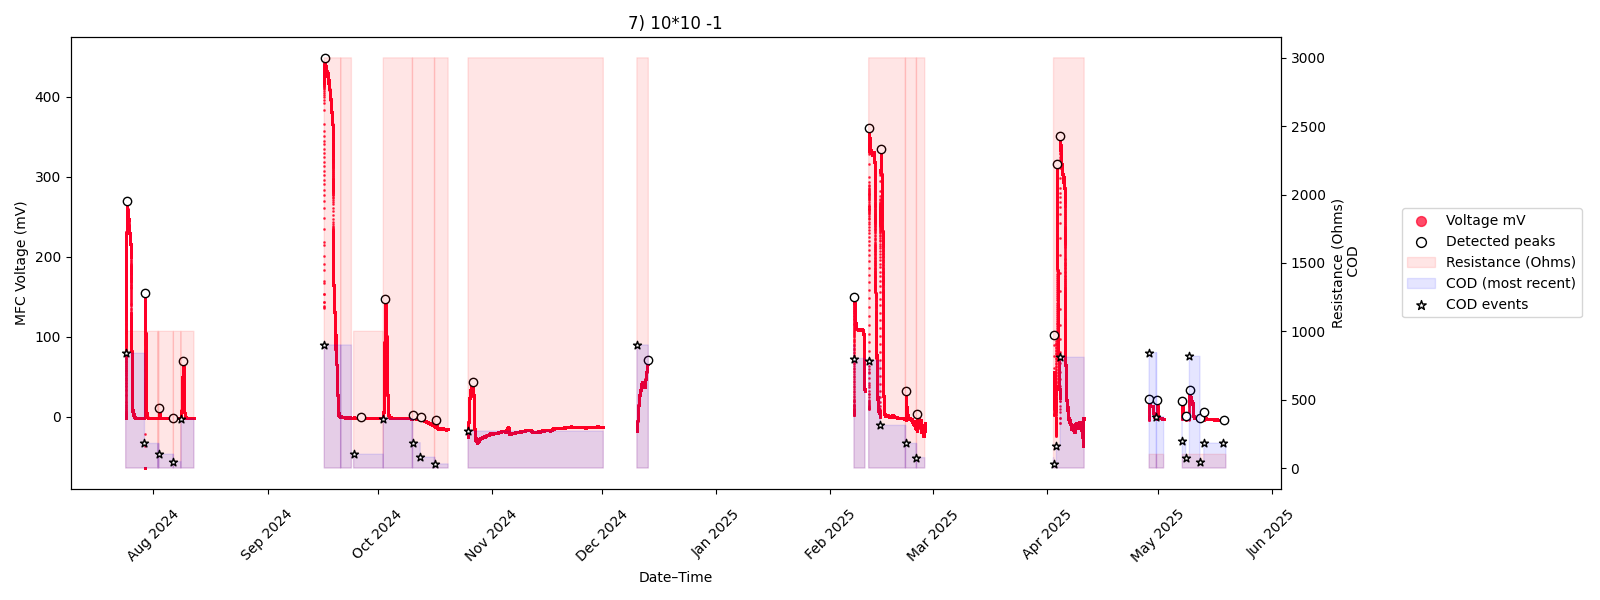
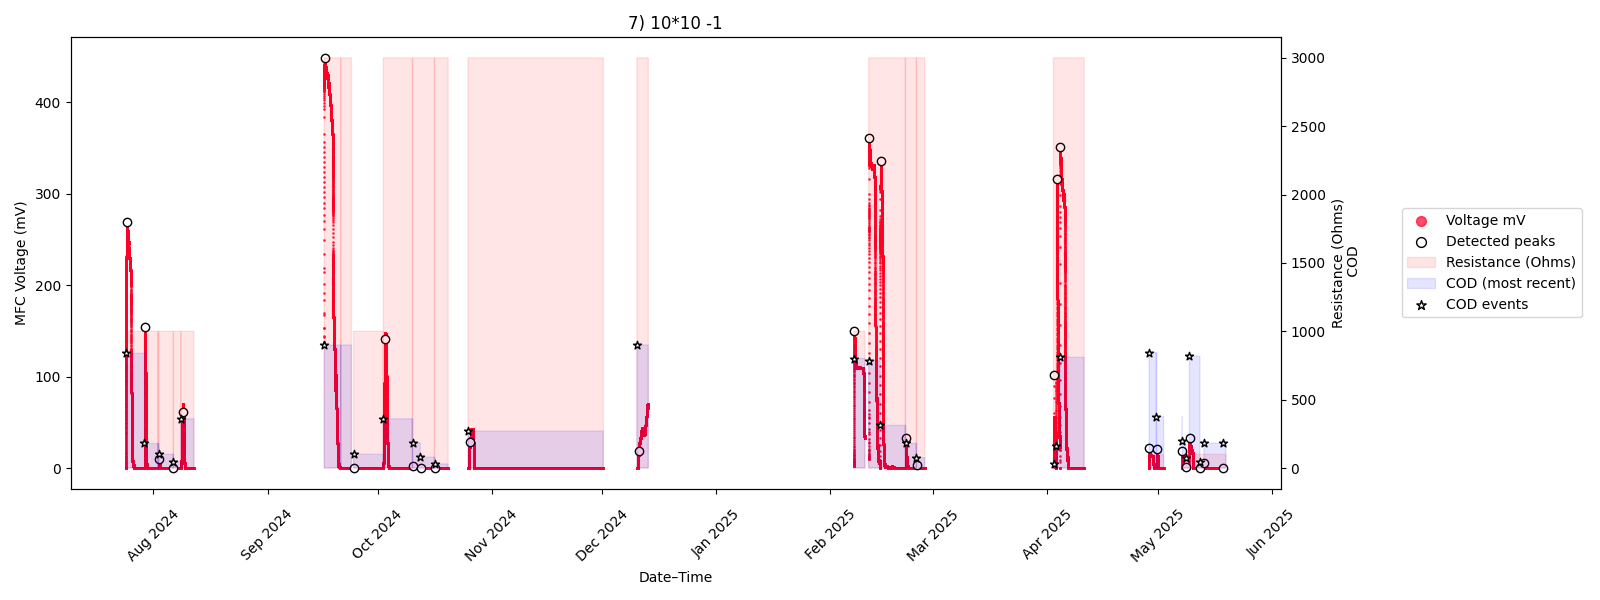
Enabled window size to vary to eplxore ealy detection of COD

diff --git a/extract_features.py b/extract_features.py
@@ -8,7 +8,8 @@ feature_data_file_name = "mfc_features"
 
 # def extract_features_to_excel(output_file_path=feature_data_file_path):
 def extract_and_store_features(input_file_path="all_data.pkl", 
-                               output_file_name=feature_data_file_name):
+                               output_file_name=feature_data_file_name,
+                               window_length_hours = 0):
 
     # Load stored data
     all_data = pd.read_pickle(input_file_path)
@@ -44,10 +45,13 @@ def extract_and_store_features(input_file_path="all_data.pkl",
     # Dictionary to store computed/extracted parameters
     mfc_features = {
         "COD date time index" : {},
+        "Window length (hours)" : {},
         "COD" : {},
         "Resistance kOhms" : {},
         "Vpeak mV": {}, 
         "Ppeak W": {}, 
+        "Vfinal mV": {}, 
+        "Pfinal W": {}, 
         "Rise time (days)" : {},
         "Decay slope (V per s)" : {},
         "Energy J": {},
@@ -67,7 +71,10 @@ def extract_and_store_features(input_file_path="all_data.pkl",
         print(mfc)
         data = all_mfc_data_separate[mfc]
 
-        # Add column showing MFC power output
+        # Set negative voltage values to 0
+        data["Voltage mV"] = data["Voltage mV"].clip(lower=0)
+
+        # Compute column showing MFC power output
         data['Power W'] = (data["Voltage mV"]/1000)**2 / (data["Resistance kOhms"]*1000)
 
         for feature in mfc_features:
@@ -86,7 +93,7 @@ def extract_and_store_features(input_file_path="all_data.pkl",
         mfc_features["COD"][mfc] = list(data.loc[cod_events_idx, "COD"])
 
         # -------- Resistance --------
-        # Store Resistance values
+        # Store Resistance value assocaited with each COD event 
         mfc_features["Resistance kOhms"][mfc] = list(data.loc[cod_events_idx, "Resistance kOhms"])
 
         # Arrays to store index of voltage peaks for each COD event
@@ -94,17 +101,35 @@ def extract_and_store_features(input_file_path="all_data.pkl",
 
         # Get window of data following each COD event
         for i in range(len(cod_events_idx)):
-            start = cod_events_idx[i] 
-            if i < len(cod_events_idx) - 1:
+            start = cod_events_idx[i]
+
+            # Set end of window
+            if window_length_hours > 0:
+                # Find closest data point to desired window length
+                end_actual = start + pd.Timedelta(hours=window_length_hours)
+                end = data.index.asof(end_actual)
+
+                mask = (data.index >= start) & (data.index < end)
+
+                # mfc_features["Window length (hours)"][mfc].append(window_length_hours)
+
+            elif i < len(cod_events_idx) - 1:
                 end = cod_events_idx[i+1]
                 mask = (data.index >= start) & (data.index < end)
+                # mfc_features["Window length (hours)"][mfc].append(0)
+            
             # Last segment of data 
             else:
                 mask = (data.index >= start) 
-            window = data.loc[mask]
+                # mfc_features["Window length (hours)"][mfc].append(0)
 
-            # Get the window of voltage data
+            # Select window of data
+            window = data.loc[mask]
+            print('Window length', len(window))
+
+            # Get the window of voltage and power data
             V_window = window['Voltage mV']
+            P_window = window['Power W']
 
             # # Update maximum window size
             # window_size = len(V_window)
@@ -118,20 +143,23 @@ def extract_and_store_features(input_file_path="all_data.pkl",
             # If there is data in the window
             if V_window.notna().any():
 
-                # -------- Index of the max voltage value --------
-                peak_idx = V_window.idxmax()
-                # print('peak', peak_idx-start)
-                # print()
- 
-                # -------- Rise time (time from COD event to voltage peak) --------
-                rise_time = (peak_idx - start).total_seconds() / (60 * 60 * 24)
-
+                
                 # -------- Max voltage value --------
+                peak_idx = V_window.idxmax()
                 V_peak = V_window.loc[peak_idx]
-
-                # -------- Power at the max voltage value --------
-                P_window = window['Power W']
+                print(V_peak)
+                
+                # -------- Power at the max voltage value (i.e. max power becuase R is constant) --------        
                 P_peak = P_window.loc[peak_idx]
+
+                # -------- Final voltage value --------
+                V_final = V_window.iloc[-1]
+
+                # -------- Final power value --------
+                P_final = P_window.iloc[-1]
+
+                # -------- Rise time (time from COD event to voltage peak) --------
+                rise_time = (peak_idx - start).total_seconds() / (60 * 60 * 24)  
 
                 # -------- Decay slope --------
                 # Define end of window
@@ -160,17 +188,20 @@ def extract_and_store_features(input_file_path="all_data.pkl",
                 peak_idx = None
                 V_peak = None
                 P_peak = None
+                V_final = None
+                P_final = None
                 rise_time = np.nan
                 decay_slope = np.nan
 
-            voltage_peaks_idx.append(peak_idx)
-
-
             # Store features for this data window
+            voltage_peaks_idx.append(peak_idx)
+            mfc_features["Window length (hours)"][mfc].append(window_length_hours)
             mfc_features["Vwindow mV"][mfc].append(V_window.tolist())
             mfc_features["Pwindow W"][mfc].append(P_window.tolist())
             mfc_features["Vpeak mV"][mfc].append(V_peak)
             mfc_features["Ppeak W"][mfc].append(P_peak)
+            mfc_features["Vfinal mV"][mfc].append(V_final)
+            mfc_features["Pfinal W"][mfc].append(P_final)
             mfc_features["Rise time (days)"][mfc].append(round(rise_time, 6))
             mfc_features["Decay slope (V per s)"][mfc].append(round(decay_slope, 6))
 
@@ -201,6 +232,14 @@ def extract_and_store_features(input_file_path="all_data.pkl",
                   show_days=False,
                   show_plot=False
                   )
+        
+        # plot_data(data, 
+        #           ["Power W"], 
+        #           title=mfc, 
+        #           voltage_peaks=voltage_peaks_idx,
+        #           show_days=False,
+        #           show_plot=False
+        #           )
         
     # print('Window size max', window_size_max)
 
@@ -262,5 +301,7 @@ def extract_and_store_features(input_file_path="all_data.pkl",
 
 if __name__ == "__main__":
     extract_and_store_features(input_file_path="all_data.pkl",
-                               output_file_name=feature_data_file_name)
+                               output_file_name=feature_data_file_name,
+                               window_length_hours=12
+                               )
 

diff --git a/model_performance_comparison.py b/model_performance_comparison.py
@@ -62,7 +62,7 @@ def prepare_model_data(model_data, labels, features):
 
 
 def evaluate_model_performance(X, y, results, configuration, 
-                               model_class, test_size, 
+                               model_class, features, test_size, 
                                min_data_points):
 
     # Drop any configurations with less than minimum threshold
@@ -132,10 +132,10 @@ def evaluate_model_performance(X, y, results, configuration,
 
 # MFC types
 mfc_types_all = [
-                        # r"10\*10\s*AC",     # Carbon veil + activated carbon
-                        # r"20\*30\s*AC",
+                        r"10\*10\s*AC",     # Carbon veil + activated carbon
+                        r"20\*30\s*AC",
                         r"10\*10(?!\s*AC)", # Carbon veil
-                        # r"20\*30(?!\s*AC)"
+                        r"20\*30(?!\s*AC)"
                         ]
 
 mfc_types_regex_mappings = {
@@ -206,13 +206,26 @@ def compare_input_data_performance():
         # print(len(model_data['COD']))
             # print(subset_mfc_types, subset_resistances, subset_years)
 
+            features=['Vpeak mV', 'Ppeak W', 
+                      'Energy J', 'Resistance kOhms', 
+                      'Vfinal mV', 'Pfinal W'
+                    ]
+
             y, X = prepare_model_data(model_data, 
-                                    labels=['COD'],
-                                    features=['Vpeak mV', 'Ppeak W', 'Energy J', 'Resistance kOhms'])        
+                                      labels=['COD'],
+                                    #   features=['Vpeak mV', 'Ppeak W', 'Energy J', 'Resistance kOhms']
+                                    #   features=['Vpeak mV', 'Ppeak W', 
+                                    #             'Energy J', 'Resistance kOhms', 
+                                    #             'Window length (hours)',
+                                    #             'Vfinal mV', 'Pfinal W'
+                                    #             ]
+                                    features=features
+                                      )        
 
             evaluate_model_performance(X, y, results, configuration, 
                                     # model=Ridge(alpha=1.0), 
                                     model_class=Ridge, 
+                                    features=features,
                                     test_size=0.2, 
                                     min_data_points=25)
         else:
@@ -236,7 +249,8 @@ def compare_input_data_performance():
         print("MSE:", round(res["mse"], 2))
         print("Alpha:", res["alpha"]),
         # print("N Samples:", res["n_samples"])
-        print("Terms:", "v_peak, p_peak, energy, resistance")
+        # print("Terms:", "v_peak, p_peak, energy, resistance")
+        print("Terms:", features)
         print("Coefficients:", [float(round(r, 3)) for r in res["coefficients"]])
         print("Intercept:", res["intercept"])
         print()

diff --git a/basic_statistical_analysis.py b/basic_statistical_analysis.py
@@ -10,12 +10,12 @@ patterns = {
         "20x30": r"20\*30(?!\s*AC)"    # match 20*30 NOT followed by AC
     }
 
-def analyse_basic_statistics(file_path="mfc_analysis.xlsx"):
+def analyse_basic_statistics(file_path="mfc_features.xlsx"):
 
     # Read all sheets into a dict of DataFrames
-    mfc_analysis = pd.read_excel(file_path, sheet_name=None)
+    mfc_features = pd.read_excel(file_path, sheet_name=None)
 
-    print(mfc_analysis.keys())  # sheet names
+    print(mfc_features.keys())  # sheet names
 
     # ---------------------------------------------------------------
     # -------- Statistical analysis of MFCs grouped by type ---------
@@ -40,7 +40,7 @@ def analyse_basic_statistics(file_path="mfc_analysis.xlsx"):
         for mfc_type, pattern in patterns.items():
 
             # Select only columns that match the heading name pettern
-            cols = mfc_analysis[parameter].filter(regex=pattern)   
+            cols = mfc_features[parameter].filter(regex=pattern)   
 
             # Compute the COD event-wise (i.e. row-wise) min, max, mean
             summary[mfc_type] = {
@@ -80,9 +80,9 @@ def analyse_basic_statistics(file_path="mfc_analysis.xlsx"):
 
     for parameter in ["Vpeak mV", "Ppeak W", "Energy J"]:
 
-        df_param = mfc_analysis[parameter]
-        df_cod = mfc_analysis["COD"]
-        df_res = mfc_analysis["Resistance kOhms"]
+        df_param = mfc_features[parameter]
+        df_cod = mfc_features["COD"]
+        df_res = mfc_features["Resistance kOhms"]
 
         for mfc_type, pattern in patterns.items():
 

diff --git a/main.py b/main.py
@@ -1,7 +1,7 @@
 from read_excel_data import *
 from extract_features import *
 from basic_statistical_analysis import *
-from ridge_regression_model import *
+from model_performance_comparison import *
 
 def main():
 
@@ -16,6 +16,8 @@ def main():
 
     # Build a ridge regression model using the fetaures and test which combinations of input data give the best performance
     build_and_evaluate_ridge()
+
+
 
     
 if __name__ == "__main__":
